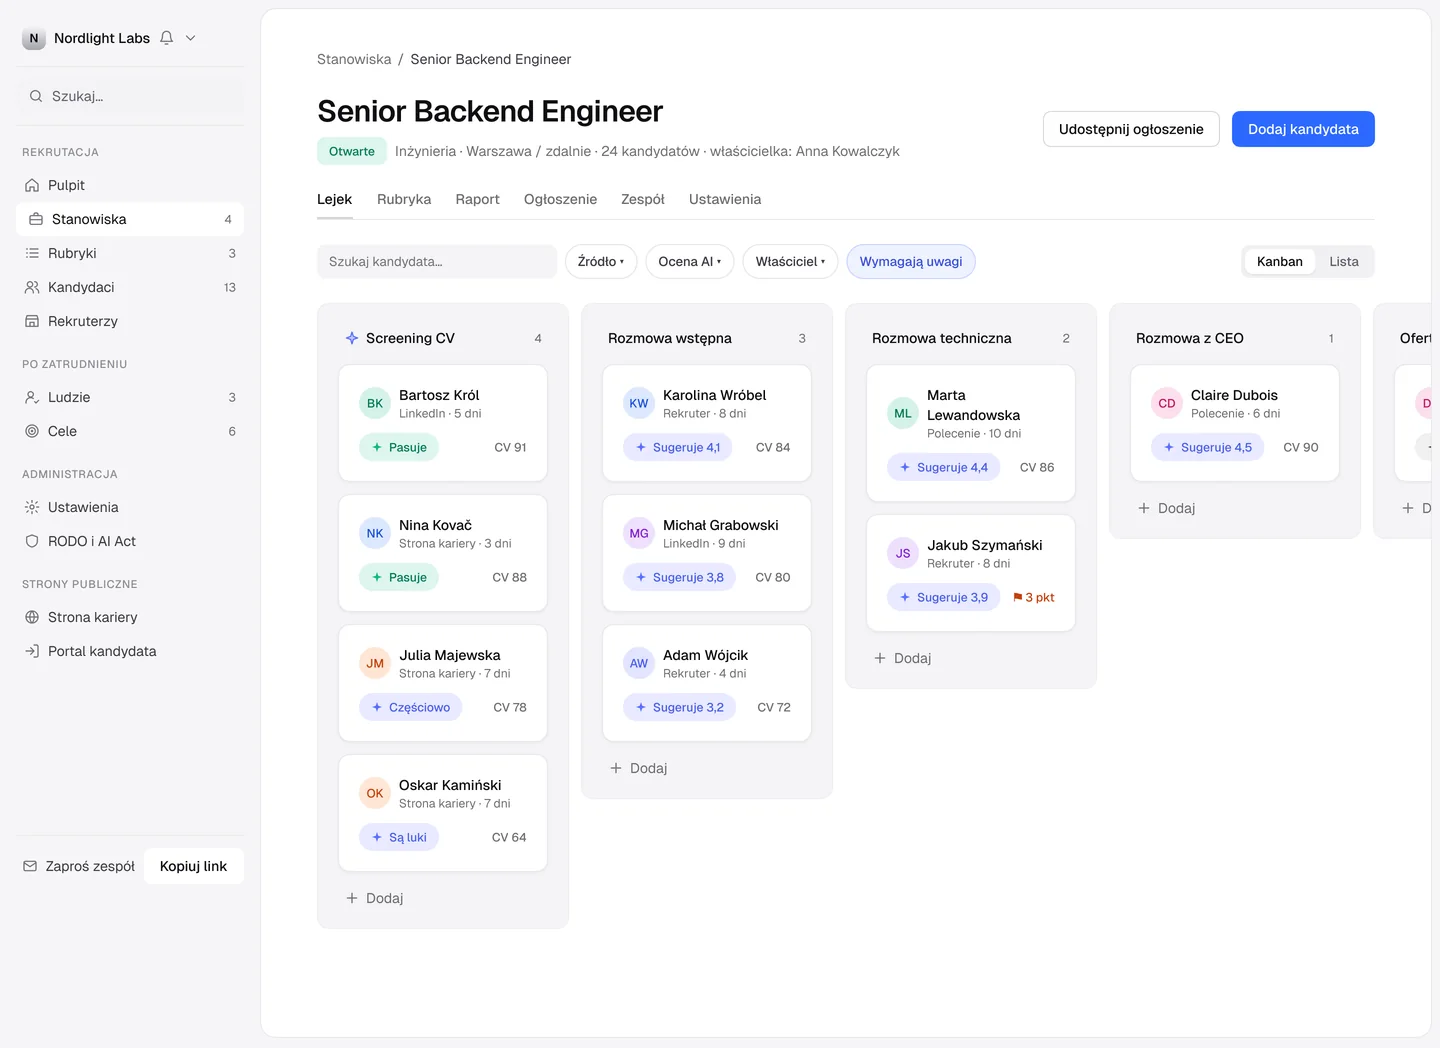
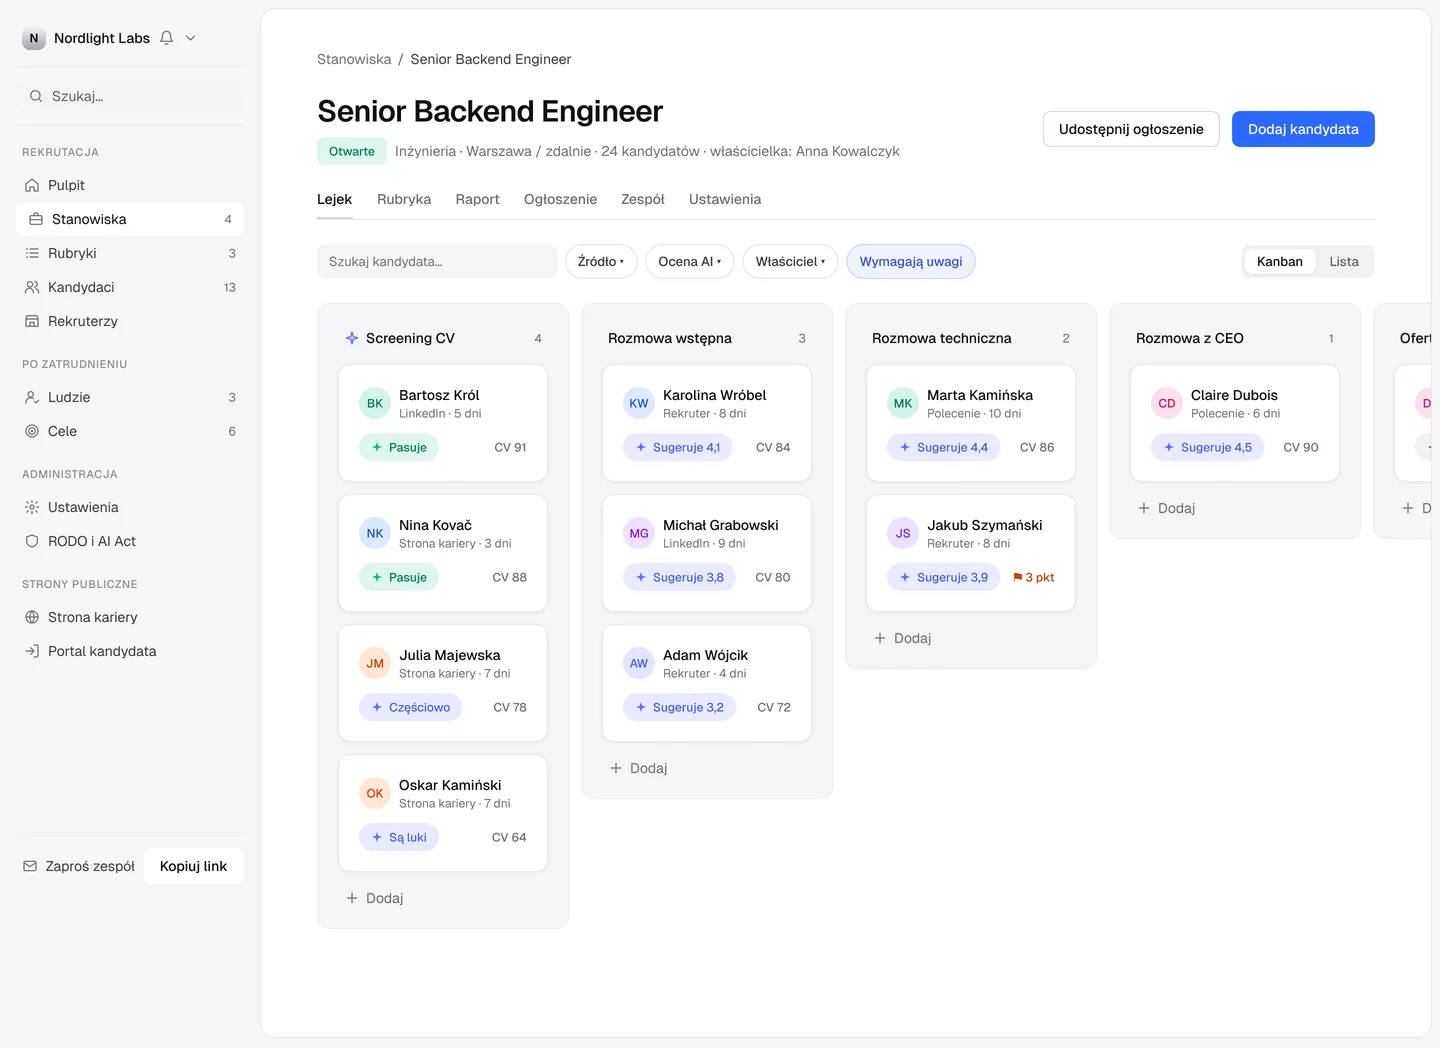
Landing: kafelki „Jak to działa” jak na mobbin.com (4 w rzędzie, 407:504, hover odsłania opis), kandydatka Marta Kamińska, nowe zrzuty
Claude-Session: https://claude.ai/code/session_011jafF1ujRt61ECkovT2K22

Changed region(s): [[0.5938, 0.4885, 0.75, 0.5802], [0.5938, 0.3664, 0.7188, 0.458], [0.625, 0.6107, 0.6562, 0.6412]]

diff --git a/site/index.html b/site/index.html
@@ -21,7 +21,7 @@
 <meta name="twitter:card" content="summary_large_image">
 <link rel="preload" href="assets/fonts/InterDisplay-SemiBold.woff" as="font" type="font/woff" crossorigin>
 <link rel="preload" href="assets/fonts/Inter-Regular.woff" as="font" type="font/woff" crossorigin>
-<link rel="preload" href="assets/landing/dashboard.webp" as="image" type="image/webp" media="(min-width:861px)">
+<link rel="preload" href="assets/landing/dashboard.webp?v=2" as="image" type="image/webp" media="(min-width:861px)">
 <script>document.documentElement.classList.add('js')</script>
 <link rel="stylesheet" href="assets/landing.css?v=light1">
 </head>
@@ -93,7 +93,7 @@
     <div class="hero-shot">
       <div class="browser">
         <div class="browser-bar" aria-hidden="true"><i style="background:#fb7185"></i><i style="background:#fbbf24"></i><i style="background:#34d399"></i><span class="url">app.tekma.app/pulpit</span></div>
-        <img src="assets/landing/dashboard.webp" srcset="assets/landing/dashboard-1x.webp 1440w, assets/landing/dashboard.webp 2880w" sizes="(max-width:1200px) 100vw, 1120px" width="1440" height="1165" alt="Pulpit Tekma: najbliższe rozmowy, sprawy wymagające uwagi i postęp każdego stanowiska" fetchpriority="high">
+        <img src="assets/landing/dashboard.webp?v=2" srcset="assets/landing/dashboard-1x.webp?v=2 1440w, assets/landing/dashboard.webp?v=2 2880w" sizes="(max-width:1200px) 100vw, 1120px" width="1440" height="1165" alt="Pulpit Tekma: najbliższe rozmowy, sprawy wymagające uwagi i postęp każdego stanowiska" fetchpriority="high">
       </div>
     </div>
   </div>
@@ -122,8 +122,8 @@
       </div>
     </div>
     <div class="browser reveal" data-delay="2">
-      <div class="browser-bar" aria-hidden="true"><i style="background:#fb7185"></i><i style="background:#fbbf24"></i><i style="background:#34d399"></i><span class="url">app.tekma.app/kandydaci/marta-lewandowska</span></div>
-      <img src="assets/landing/scorecard.webp" srcset="assets/landing/scorecard-1x.webp 1440w, assets/landing/scorecard.webp 2880w" sizes="(max-width:1200px) 100vw, 1120px" width="1440" height="1093" alt="Karta oceny kandydatki: pytania z rubryki, oceny rozmówców, sugestie AI i transkrypcja" loading="lazy">
+      <div class="browser-bar" aria-hidden="true"><i style="background:#fb7185"></i><i style="background:#fbbf24"></i><i style="background:#34d399"></i><span class="url">app.tekma.app/kandydaci/marta-kaminska</span></div>
+      <img src="assets/landing/scorecard.webp?v=2" srcset="assets/landing/scorecard-1x.webp?v=2 1440w, assets/landing/scorecard.webp?v=2 2880w" sizes="(max-width:1200px) 100vw, 1120px" width="1440" height="1093" alt="Karta oceny kandydatki: pytania z rubryki, oceny rozmówców, sugestie AI i transkrypcja" loading="lazy">
     </div>
   </div>
 </section>
@@ -144,7 +144,7 @@
     </div>
     <div class="browser reveal" data-delay="2">
       <div class="browser-bar" aria-hidden="true"><i style="background:#fb7185"></i><i style="background:#fbbf24"></i><i style="background:#34d399"></i><span class="url">app.tekma.app/stanowiska/senior-backend/lejek</span></div>
-      <img src="assets/landing/pipeline.webp" srcset="assets/landing/pipeline-1x.webp 1440w, assets/landing/pipeline.webp 2880w" sizes="(max-width:1200px) 100vw, 1120px" width="1440" height="1048" alt="Lejek rekrutacyjny: kolumny etapów z kartami kandydatów, dopasowaniem CV i sugestiami AI" loading="lazy">
+      <img src="assets/landing/pipeline.webp?v=2" srcset="assets/landing/pipeline-1x.webp?v=2 1440w, assets/landing/pipeline.webp?v=2 2880w" sizes="(max-width:1200px) 100vw, 1120px" width="1440" height="1048" alt="Lejek rekrutacyjny: kolumny etapów z kartami kandydatów, dopasowaniem CV i sugestiami AI" loading="lazy">
     </div>
   </div>
 </section>
@@ -165,7 +165,7 @@
     </div>
     <div class="browser reveal" data-delay="2">
       <div class="browser-bar" aria-hidden="true"><i style="background:#fb7185"></i><i style="background:#fbbf24"></i><i style="background:#34d399"></i><span class="url">app.tekma.app/ludzie/katarzyna-mazur</span></div>
-      <img src="assets/landing/person.webp" srcset="assets/landing/person-1x.webp 1440w, assets/landing/person.webp 2880w" sizes="(max-width:1200px) 100vw, 1120px" width="1440" height="983" alt="Profil nowej osoby: plan 90 dni, najbliższe 1:1, nastrój w check-inach i szkolenia" loading="lazy">
+      <img src="assets/landing/person.webp?v=2" srcset="assets/landing/person-1x.webp?v=2 1440w, assets/landing/person.webp?v=2 2880w" sizes="(max-width:1200px) 100vw, 1120px" width="1440" height="983" alt="Profil nowej osoby: plan 90 dni, najbliższe 1:1, nastrój w check-inach i szkolenia" loading="lazy">
     </div>
   </div>
 </section>
@@ -175,10 +175,10 @@
   <div class="wrap">
     <div class="center reveal"><span class="eyebrow">Jak to działa</span><h2>Od pierwszego stanowiska do pierwszej decyzji w 5 minut</h2></div>
     <div class="tiles">
-      <article class="tile reveal"><div class="tile-top"><svg aria-hidden="true"><use href="#l-file"/></svg><small>01</small></div><div><h3>Opisz stanowisko</h3><p>AI naszkicuje ogłoszenie, pytania i plan 90 dni na podstawie profilu firmy.</p></div></article>
-      <article class="tile reveal" data-delay="1"><div class="tile-top"><svg aria-hidden="true"><use href="#l-users"/></svg><small>02</small></div><div><h3>Zaproś rozmówców</h3><p>Każdy dostaje tę samą rubrykę. Notetaker dołącza do rozmów sam.</p></div></article>
-      <article class="tile reveal"><div class="tile-top"><svg aria-hidden="true"><use href="#l-clip"/></svg><small>03</small></div><div><h3>Oceńcie niezależnie</h3><p>Oceny innych widzisz dopiero po wysłaniu swojej. Rozbieżności dostają flagę.</p></div></article>
-      <article class="tile reveal" data-delay="1"><div class="tile-top"><svg aria-hidden="true"><use href="#l-rocket"/></svg><small>04</small></div><div><h3>Zatrudnij i wdróż</h3><p>Oferta, portal kandydata i plan pierwszych 90 dni — w jednym miejscu.</p></div></article>
+      <a class="tile reveal" href="#produkt"><div class="tile-top"><svg aria-hidden="true"><use href="#l-file"/></svg><small>01</small></div><div class="tile-body"><h3>Opisz stanowisko</h3><div class="tile-more"><p>AI naszkicuje ogłoszenie, pytania i plan 90 dni na podstawie profilu firmy.</p><span>Zobacz, jak to działa <i>→</i></span></div></div></a>
+      <a class="tile reveal" data-delay="1" href="#produkt"><div class="tile-top"><svg aria-hidden="true"><use href="#l-users"/></svg><small>02</small></div><div class="tile-body"><h3>Zaproś rozmówców</h3><div class="tile-more"><p>Każdy dostaje tę samą rubrykę. Notetaker dołącza do rozmów sam.</p><span>Zobacz, jak to działa <i>→</i></span></div></div></a>
+      <a class="tile reveal" data-delay="2" href="#produkt"><div class="tile-top"><svg aria-hidden="true"><use href="#l-clip"/></svg><small>03</small></div><div class="tile-body"><h3>Oceńcie niezależnie</h3><div class="tile-more"><p>Oceny innych widzisz dopiero po wysłaniu swojej. Rozbieżności dostają flagę.</p><span>Zobacz, jak to działa <i>→</i></span></div></div></a>
+      <a class="tile reveal" data-delay="3" href="#po-zatrudnieniu"><div class="tile-top"><svg aria-hidden="true"><use href="#l-rocket"/></svg><small>04</small></div><div class="tile-body"><h3>Zatrudnij i wdróż</h3><div class="tile-more"><p>Oferta, portal kandydata i plan pierwszych 90 dni — w jednym miejscu.</p><span>Zobacz, jak to działa <i>→</i></span></div></div></a>
     </div>
   </div>
 </section>

diff --git a/site/assets/landing.css b/site/assets/landing.css
@@ -126,19 +126,23 @@ h1 .w{display:inline-block;opacity:0;transform:translateY(18px);animation:up .7s
 .feature .browser{transform:translateY(0)}
 .feature .browser:hover{transform:translateY(-4px)}
 
-/* ---------- how ---------- */
-.tiles{display:grid;grid-template-columns:1fr 1fr;gap:20px;margin-top:48px}
-.tile{position:relative;min-height:380px;padding:40px;border-radius:var(--r-lg);background:var(--bg-3);display:flex;flex-direction:column;justify-content:space-between;overflow:hidden;transition:transform .35s var(--ease),box-shadow .35s var(--ease)}
-.tile:nth-child(2n){background:#fff}
-.tile:hover{transform:translateY(-4px);box-shadow:0 30px 60px -30px rgba(15,15,25,.25)}
-.tile::before{content:"";position:absolute;inset:0;background:radial-gradient(360px circle at var(--mx,50%) var(--my,50%),rgba(45,104,255,.10),transparent 60%);opacity:0;transition:opacity .4s}
-.tile:hover::before{opacity:1}
-.tile>*{position:relative}
+/* ---------- how (kafelki jak na mobbin.com) ---------- */
+.tiles{display:grid;grid-template-columns:repeat(4,1fr);gap:12px;margin-top:48px}
+.tile{position:relative;aspect-ratio:407/504;padding:28px;border-radius:24px;background:#fff;display:flex;flex-direction:column;justify-content:space-between;overflow:hidden;color:var(--ink);transition:background-color .3s ease-out;outline:none}
+.tile:hover,.tile:focus-visible{background:var(--bg-3)}
+.tile:focus-visible{box-shadow:0 0 0 4px rgba(45,104,255,.5)}
 .tile-top{display:flex;align-items:center;justify-content:space-between}
-.tile-top svg{width:32px;height:32px;stroke:var(--ink);fill:none;stroke-width:2;stroke-linecap:round;stroke-linejoin:round}
+.tile-top svg{width:28px;height:28px;stroke:var(--ink);fill:none;stroke-width:2;stroke-linecap:round;stroke-linejoin:round}
 .tile-top small{font-size:14px;font-weight:500;color:var(--muted)}
-.tile h3{font-family:var(--display);font-weight:600;font-size:28px;line-height:1.15;letter-spacing:-.015em;margin-bottom:10px}
-.tile p{font-size:16px;line-height:1.5;color:var(--sub)}
+.tile h3{font-family:var(--display);font-weight:600;font-size:22px;line-height:1.15;letter-spacing:-.015em;text-wrap:pretty}
+.tile-more{max-height:0;overflow:hidden;transition:max-height .3s ease-out}
+.tile:hover .tile-more,.tile:focus-visible .tile-more{max-height:160px}
+.tile-more p{margin-top:12px;font-size:14px;line-height:1.5;color:var(--sub);opacity:0;transition:opacity .3s ease-out}
+.tile-more span{display:inline-flex;align-items:center;gap:6px;margin-top:12px;font-size:13px;font-weight:500;color:var(--sub);opacity:0;transition:opacity .3s ease-out .05s}
+.tile-more i{font-style:normal;transition:transform .3s ease-out}
+.tile:hover .tile-more p,.tile:hover .tile-more span,.tile:focus-visible .tile-more p,.tile:focus-visible .tile-more span{opacity:1}
+.tile:hover .tile-more i{transform:translateX(3px)}
+@media (hover:none){.tile-more{max-height:none}.tile-more p,.tile-more span{opacity:1}}
 
 /* ---------- trust (dark) ---------- */
 .trust{background:var(--dark);color:#fff;position:relative;overflow:hidden}
@@ -231,6 +235,7 @@ h1 .w{display:inline-block;opacity:0;transform:translateY(18px);animation:up .7s
 
 /* ---------- responsive ---------- */
 @media (max-width:1100px){
+  .tiles{grid-template-columns:1fr 1fr}
   .feature-head{grid-template-columns:1fr;gap:24px}
   .feature-head .right{padding-top:0}
   .trust .wrap{grid-template-columns:1fr;gap:40px}
@@ -251,9 +256,9 @@ h1 .w{display:inline-block;opacity:0;transform:translateY(18px);animation:up .7s
   .browser img{min-width:880px}
   .browser-bar{position:sticky;left:0}
   .proof{flex-direction:column;align-items:center;gap:8px}
-  .tiles{grid-template-columns:1fr}
-  .tile{min-height:0;padding:28px;gap:40px}
-  .tile h3{font-size:24px}
+  .tiles{display:flex;gap:12px;overflow-x:auto;scroll-snap-type:x mandatory;scroll-padding-left:var(--gutter);margin-inline:calc(-1*var(--gutter));padding-inline:var(--gutter);scrollbar-width:none}
+  .tiles::-webkit-scrollbar{display:none}
+  .tile{flex:0 0 min(300px,78vw);scroll-snap-align:start;aspect-ratio:auto;min-height:300px}
   .tcards{grid-template-columns:1fr}
   .quote blockquote{font-size:22px}
   .plans{grid-template-columns:1fr}
